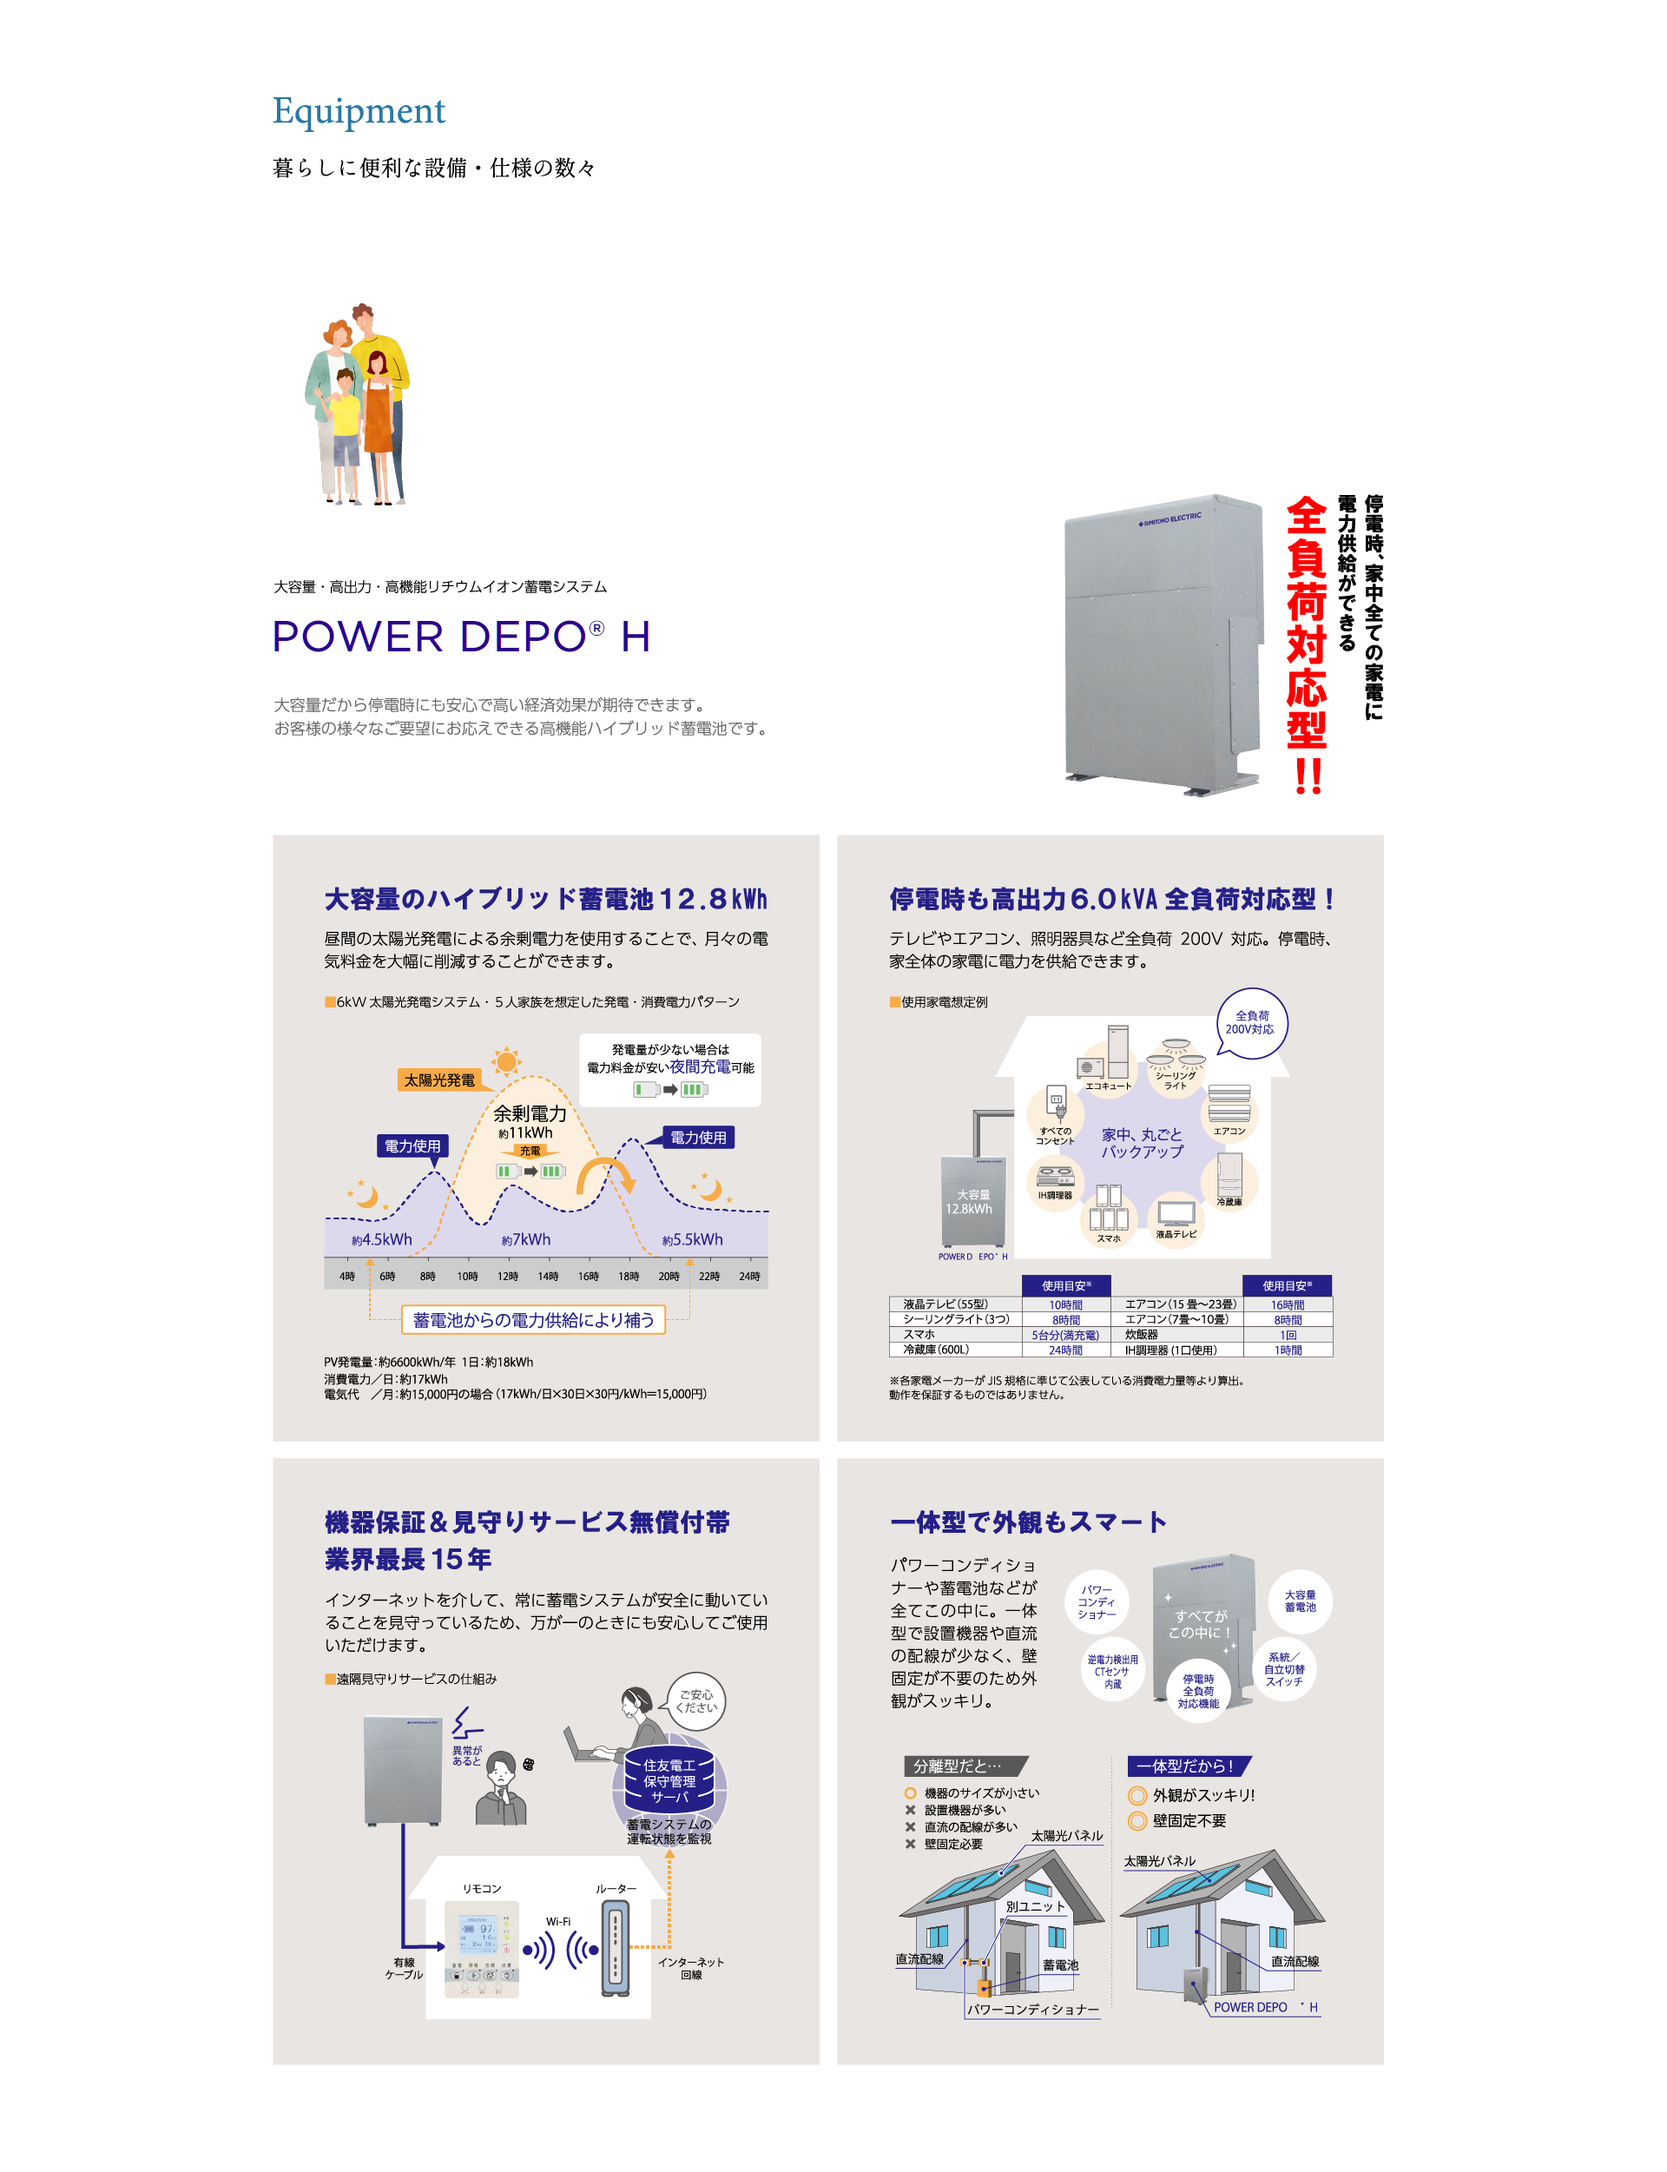
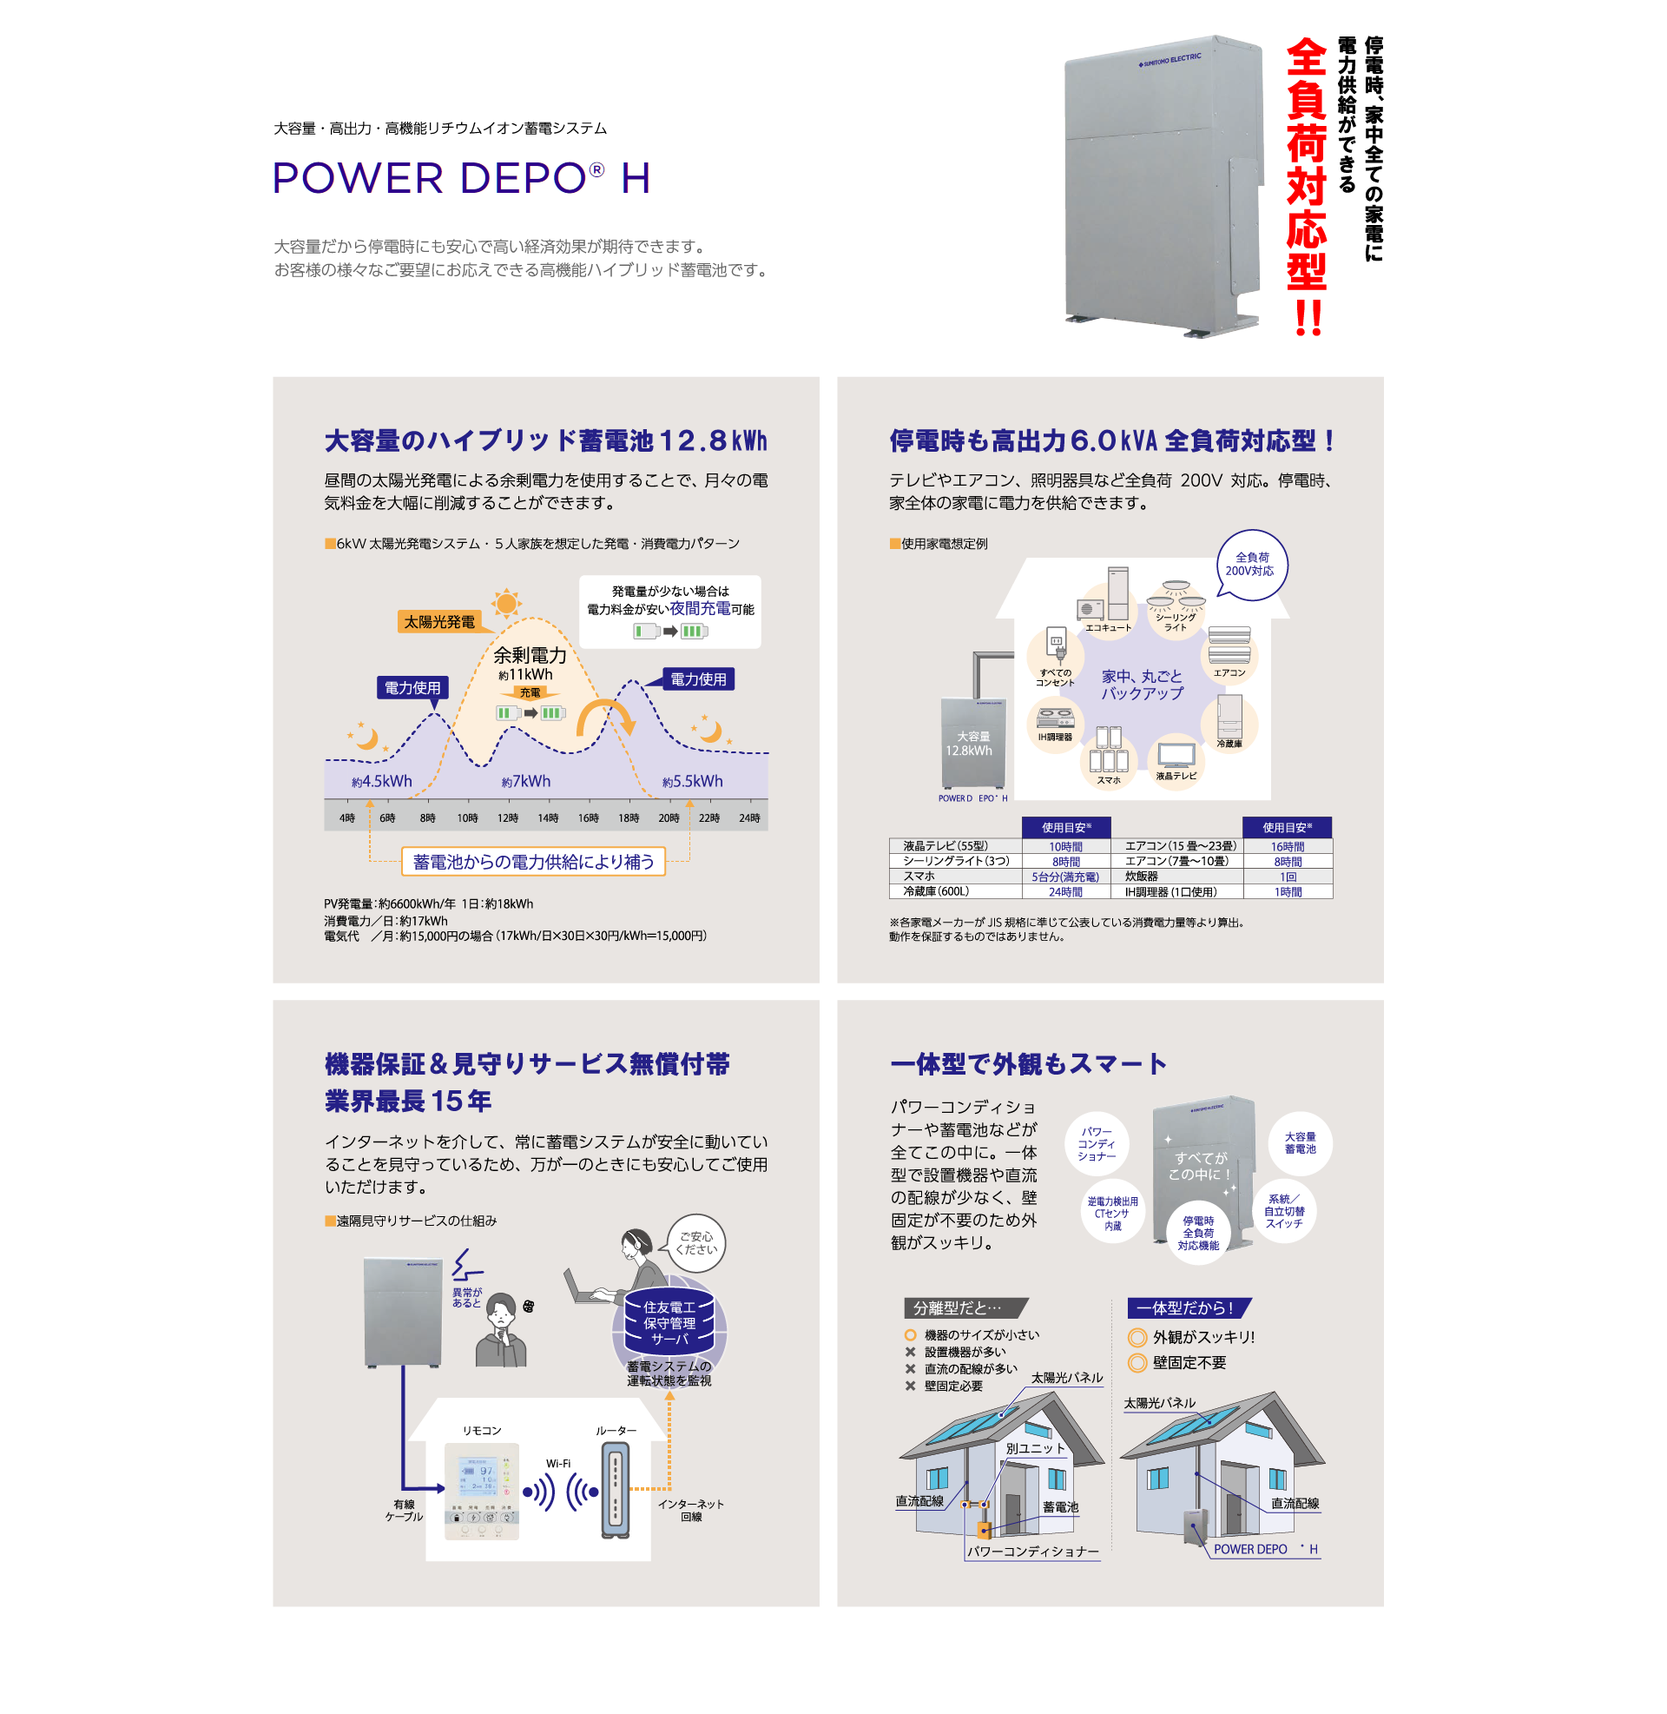
設備 > 太陽光追加

Changed region(s): [[0.1562, 0.0, 0.8438, 0.9584], [0.4062, 0.1546, 0.4375, 0.1855]]

diff --git a/index.html b/index.html
@@ -230,7 +230,11 @@
             <!-- 設備・仕様 -->
             <div id="content3" class="l-contents -img-bg">
                 <div class="imgBox">
+                    <img class="sp" src="images/bg/equipment-title_s.png" alt="設備・仕様について">
+                    <img class="sp" src="images/bg/equipment-sun_s.png" alt="設備・仕様について">
                     <img class="sp" src="images/bg/equipment-top_s.png" alt="設備・仕様について">
+                    <img class="pc" src="images/bg/equipment-title.png" alt="設備・仕様について">
+                    <img class="pc" src="images/bg/equipment-sun.png" alt="設備・仕様について">
                     <img class="pc" src="images/bg/equipment-top.png" alt="設備・仕様について">
                 </div>
                 <div class="l-contentsBox -serifu -equipment" data-aos="fade-up"
@@ -250,7 +254,6 @@
                 <img class="sp" src="images/bg/entrance-bg_s.png" alt="エントランスについて">
                 <img class="pc" src="images/bg/entrance-bg.png" alt="エントランスについて">
             </div>
-
             <!-- contact*4 -->
             <div class="l-contents -img">
                 <img class="sp" src="images/bg/contact-title_s.png" alt="お問い合わせはコチラ">
